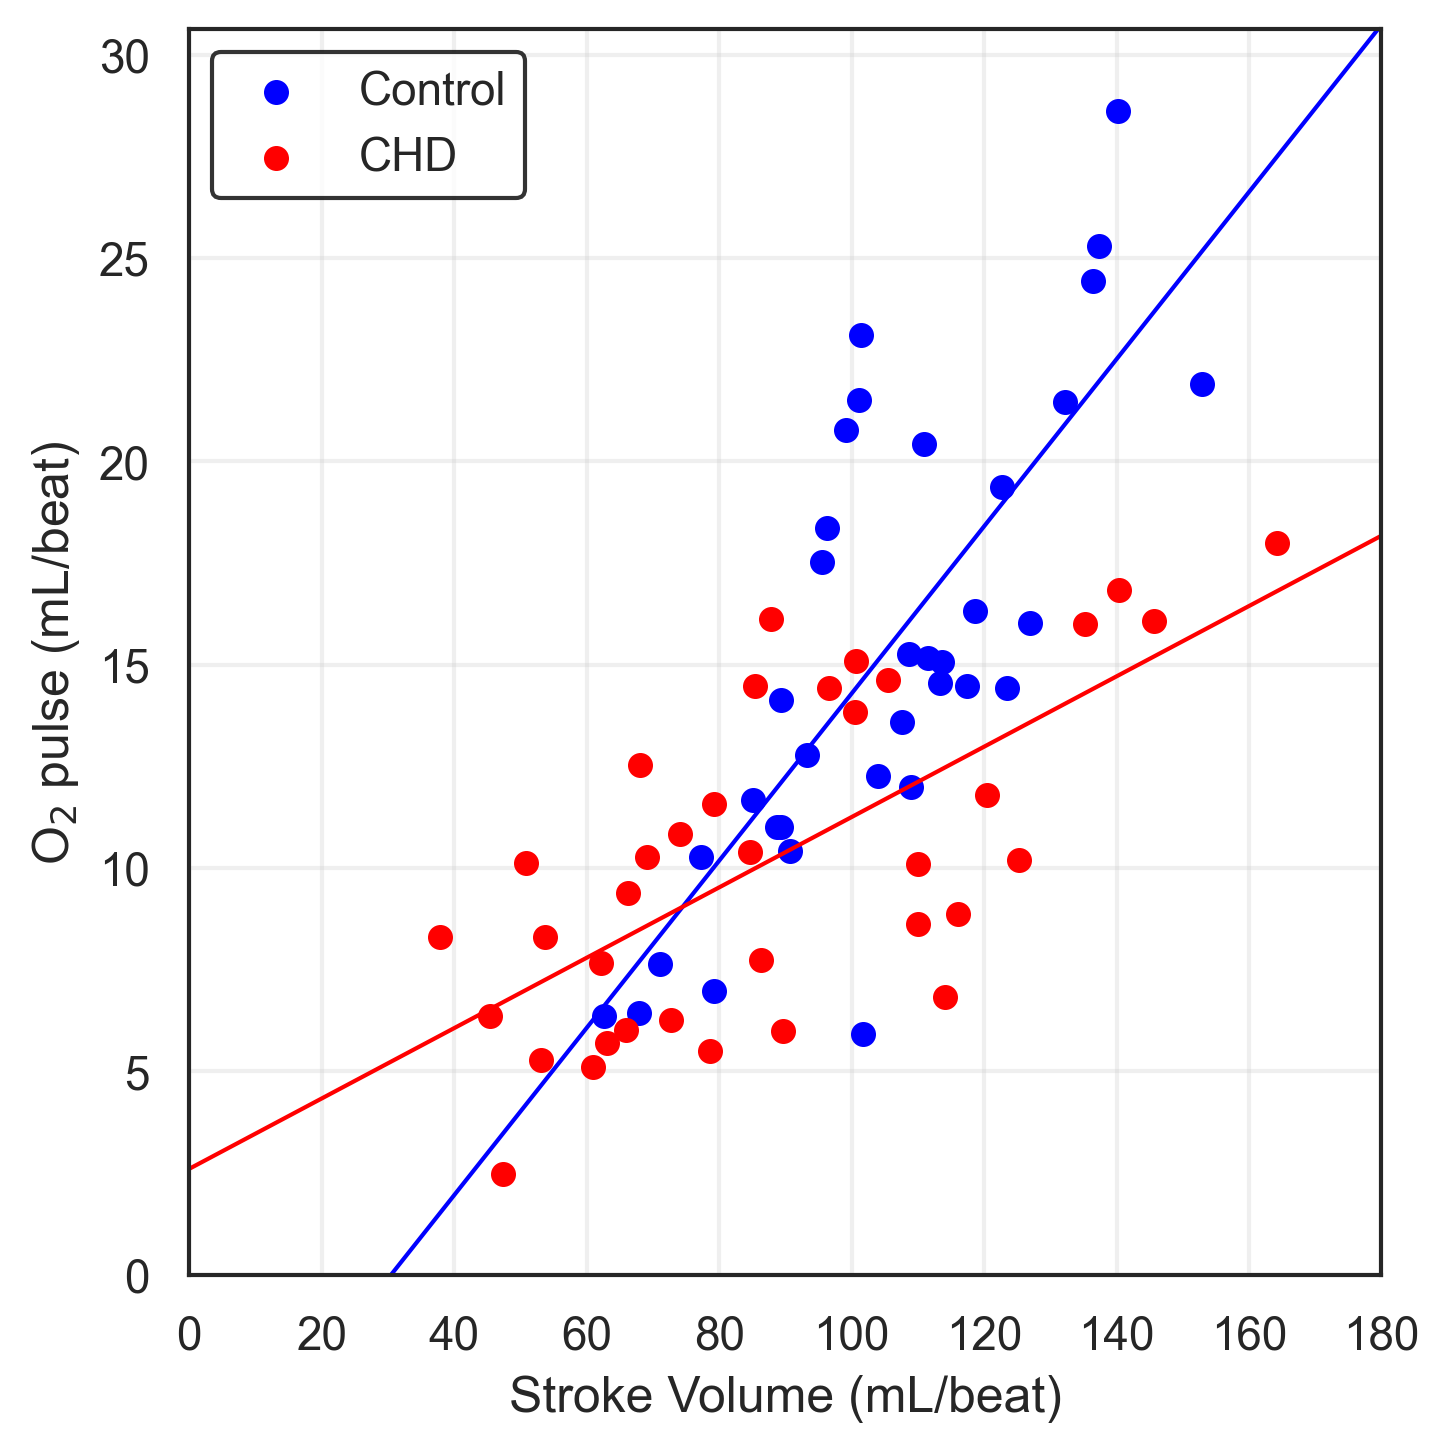
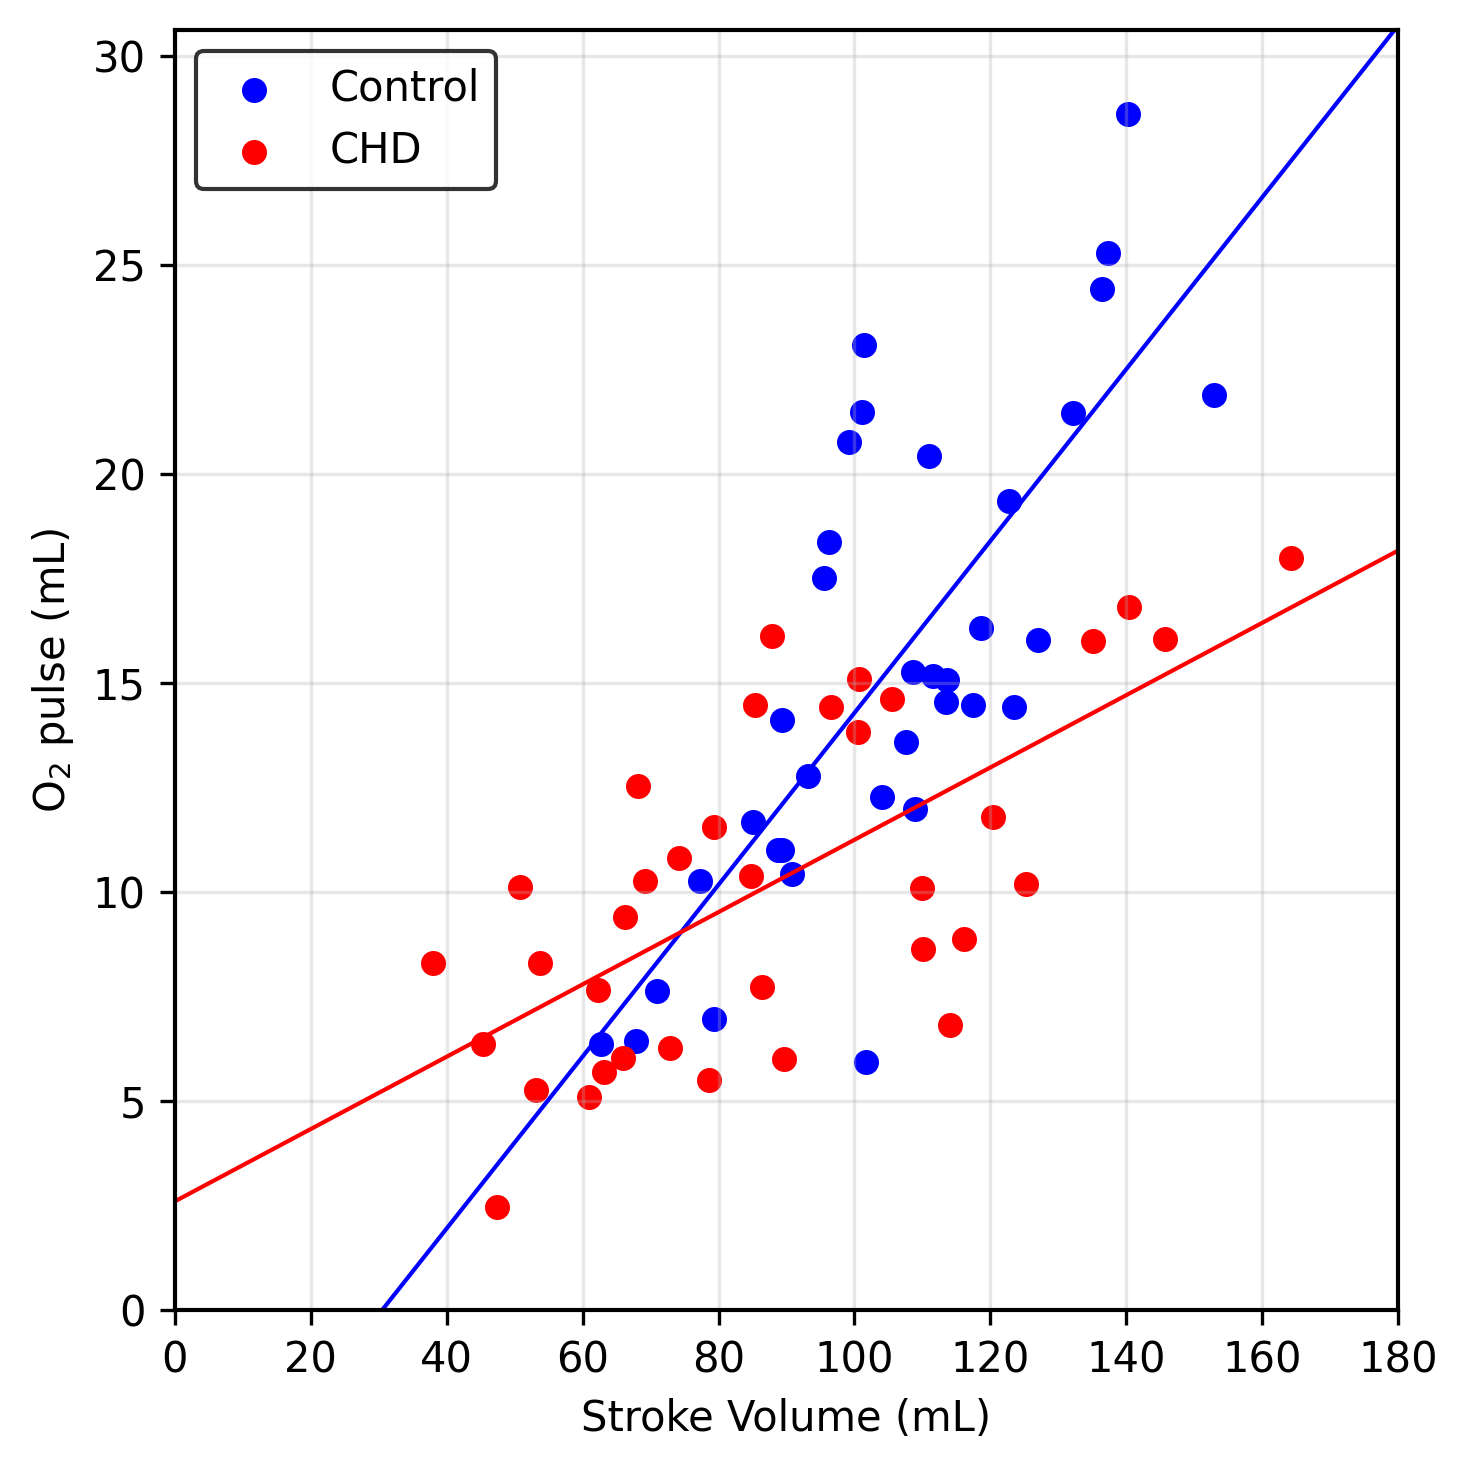
final!

diff --git a/code.py b/code.py
@@ -378,8 +378,8 @@ if len(control) > 1:
 if len(chd) > 1:
     m_h, b_h = np.polyfit(chd["SV"], chd["O2_pulse"], 1)
     plt.plot(x_line, m_h * x_line + b_h, color="red", linewidth=1)
-plt.xlabel("Stroke Volume (mL/beat)")
-plt.ylabel("O$_2$ pulse (mL/beat)")
+plt.xlabel("Stroke Volume (mL)")
+plt.ylabel("O$_2$ pulse (mL)")
 plt.xticks(np.arange(0, df["SV"].max() + 20, 20))
 plt.yticks(np.arange(0, 31, 5))
 for spine in ax.spines.values():